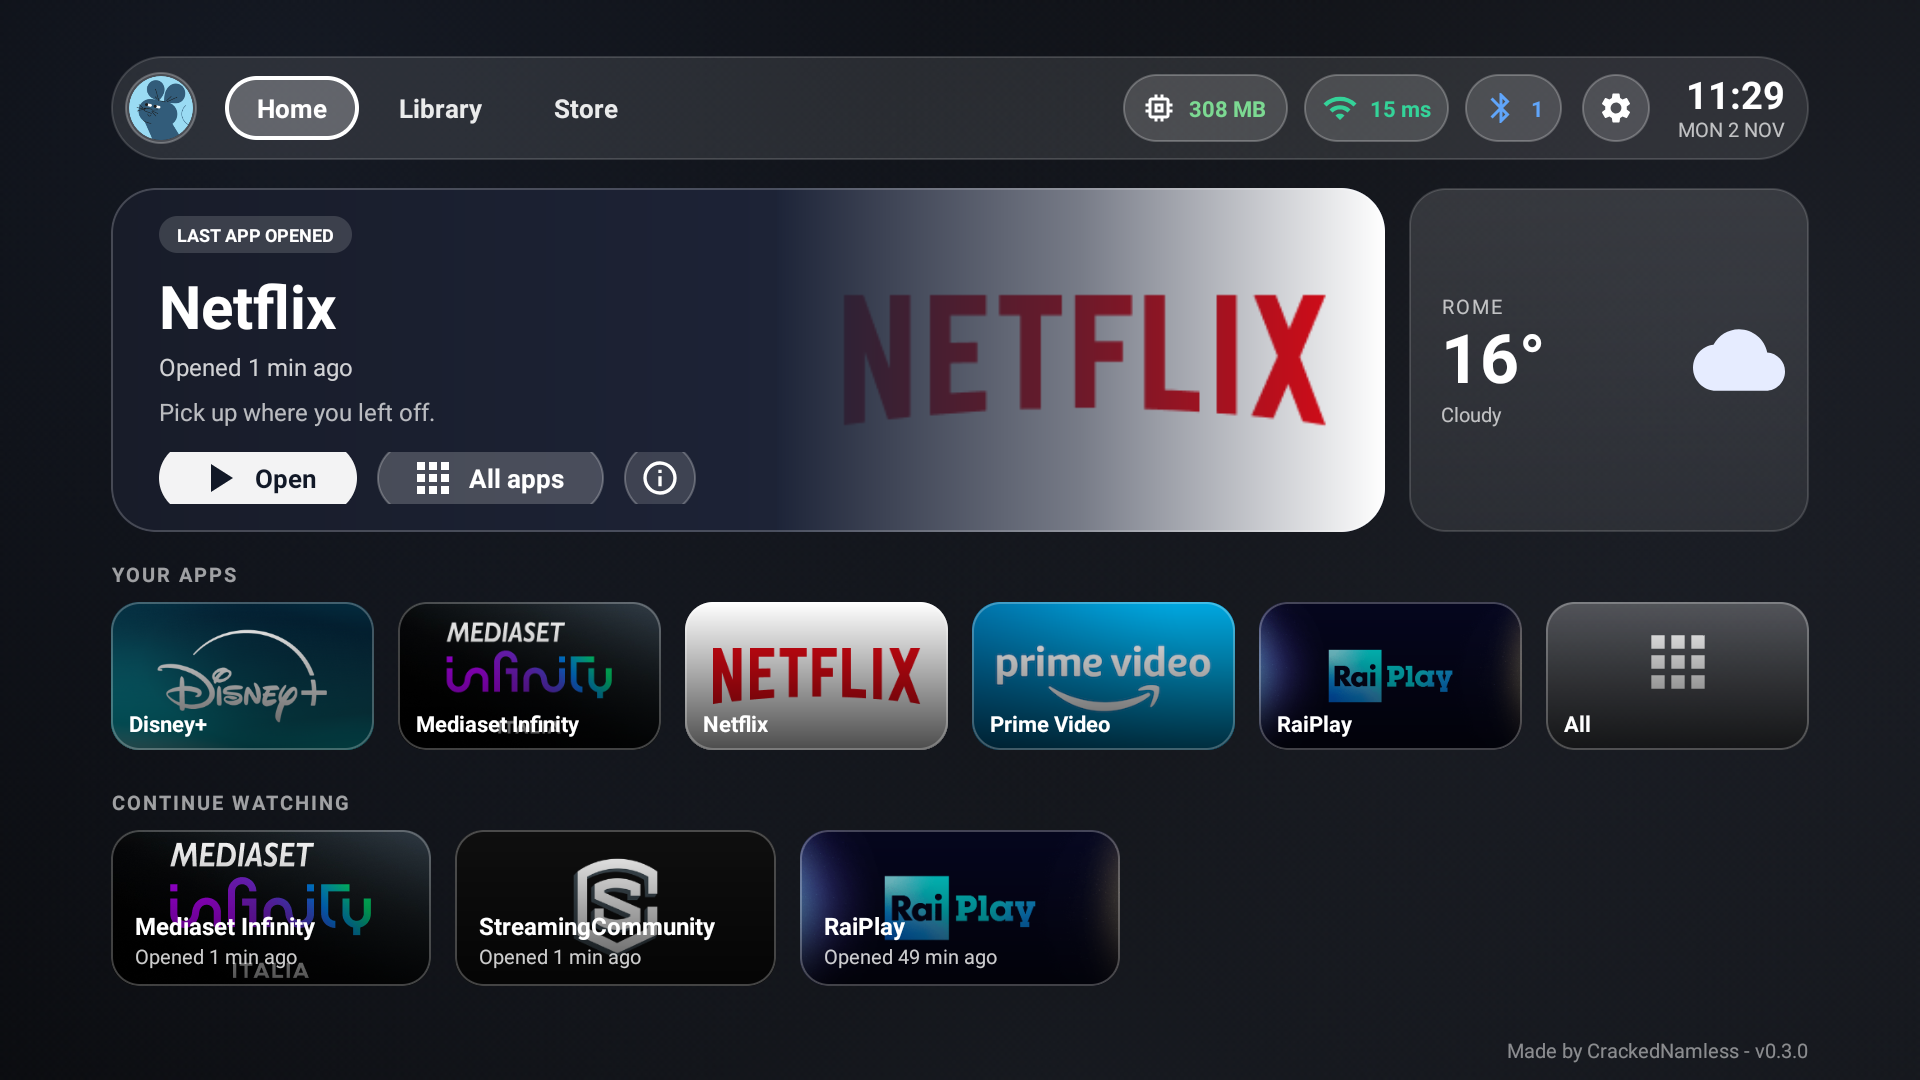
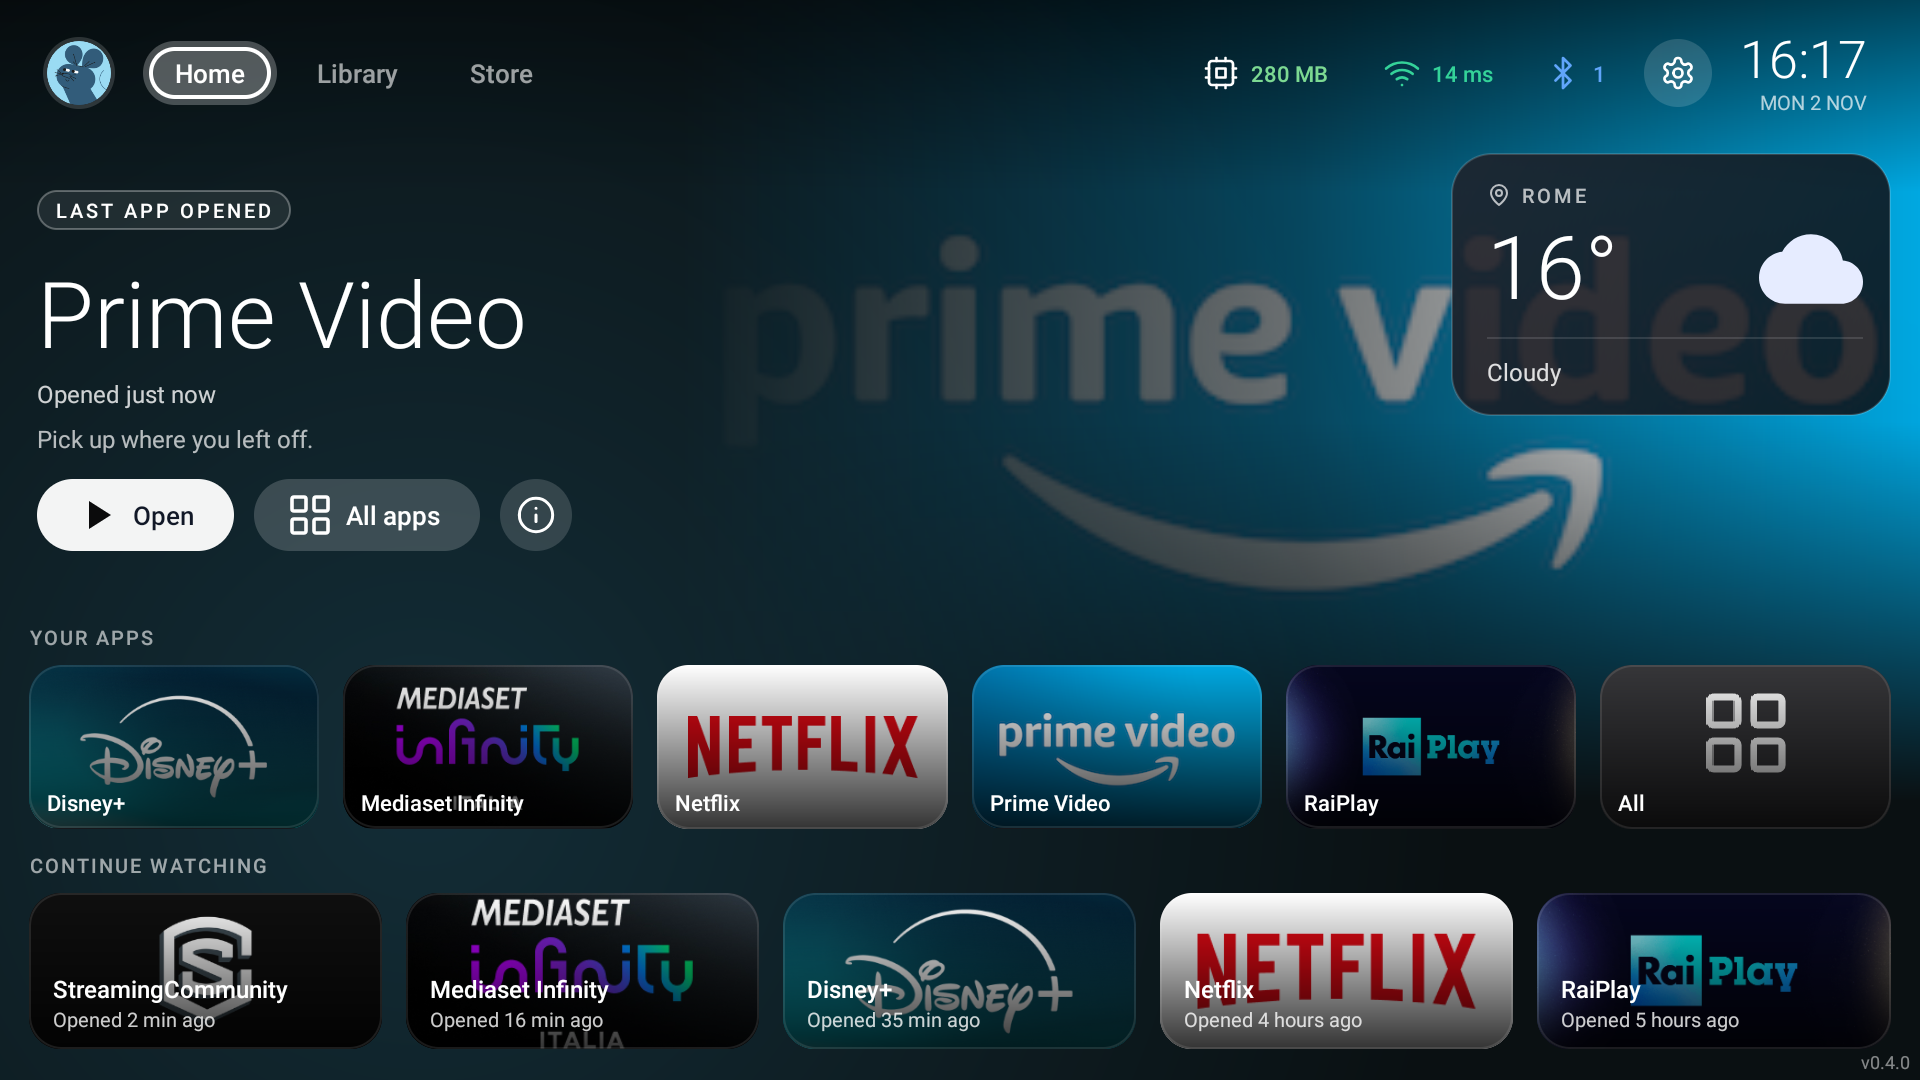
Release 0.4.0: Cinema look, new screenshots

diff --git a/CHANGELOG.md b/CHANGELOG.md
@@ -4,9 +4,10 @@ All notable changes to this project are documented here. Each release on GitHub 
 
 ## [Unreleased]
 
+## [0.4.0] - 2026-11-02
+
 ### Changed
-- **Premium glass look.** Buttons, tabs, pills, rows, cards and panels now use soft top-to-bottom gradients, a thin inner highlight and a brighter focus ring with a glow. The primary button is a polished pearl gradient. Fire Health, Tools and the app menu share the same glass background as the Home, and the menu panel is more translucent. All done with lightweight drawables, no runtime blur, so Home return time is unchanged.
-- **New "Cinema" look.** The featured app now fills the top of the Home as a full-bleed backdrop that fades into a page tinted with its colour. The top bar is frameless (text tabs with an underline, line icons, light-weight clock), the hero title is large and light, buttons are solid white pills, tiles have a crisp white focus border, and the whole UI uses flat near-black surfaces with hairline outlines. The previous glass look is kept in git as the tag `look-glass-v1`.
+- **New "Cinema" look, redesigned from scratch.** The featured app now fills the top of the Home as a full-bleed backdrop that fades into a page tinted with its colour. The top bar is frameless (text tabs with an underline, line icons, light-weight clock), the hero title is large and light, buttons are solid white pills, tiles have a crisp white focus border, and the whole UI uses flat near-black surfaces with hairline outlines. The previous glass look is kept in git as the tag `look-glass-v1`.
 - **Weather card redesigned:** location with a pin, large light temperature, bigger icon, a divider and the conditions below, on a soft gradient card.
 - **Edge-to-edge layout:** the large side and top/bottom margins are gone (about 1.5% safe margin), so the Home, Fire Health and Tools use the whole screen on any TV.
 - The footer now shows only the version number.

diff --git a/README.md b/README.md
@@ -1,6 +1,6 @@
 # CrackedNamless-FireOS
 
-A fast, glass-style Home screen for Amazon Fire TV. It replaces the ad-heavy Amazon launcher with a clean one that opens in about a second on a 1 GB Fire TV Stick, and ships a set of tools to remove Amazon background services.
+A fast, cinematic Home screen for Amazon Fire TV. It replaces the ad-heavy Amazon launcher with a clean one that opens in about a second on a 1 GB Fire TV Stick, and ships a set of tools to remove Amazon background services.
 
 [![Latest release](https://img.shields.io/github/v/release/CrackedNamless/CrackedNamless-FireOS?style=flat-square)](https://github.com/CrackedNamless/CrackedNamless-FireOS/releases/latest)
 [![License: Apache 2.0](https://img.shields.io/badge/license-Apache%202.0-blue?style=flat-square)](LICENSE)
@@ -10,7 +10,7 @@ A fast, glass-style Home screen for Amazon Fire TV. It replaces the ad-heavy Ama
 
 ## What you get
 
-- **A clean Home.** Frosted-glass top bar, a card for the last app you opened, your apps, a "continue watching" row and a full library. No ads, no promoted content. Every app card is filled with the app's own banner or icon.
+- **A clean Home.** A full-bleed backdrop of the last app you opened, a frameless top bar, your apps, a "continue watching" row and a full library. No ads, no promoted content. Every app card is filled with the app's own banner or icon.
 - **It really replaces Home.** Pressing the Home button on the remote shows this launcher, even though Fire OS pins Amazon's.
 - **A Store tab.** The **Store** tab in the top bar opens the Amazon Appstore that is already on the Fire TV, so you can get new apps without leaving the launcher.
 - **A real Library.** Hold OK on an app to put it in a folder (Streaming, Games, Music, Tools, Kids or one you name) or to uninstall it. System apps are never removed.
